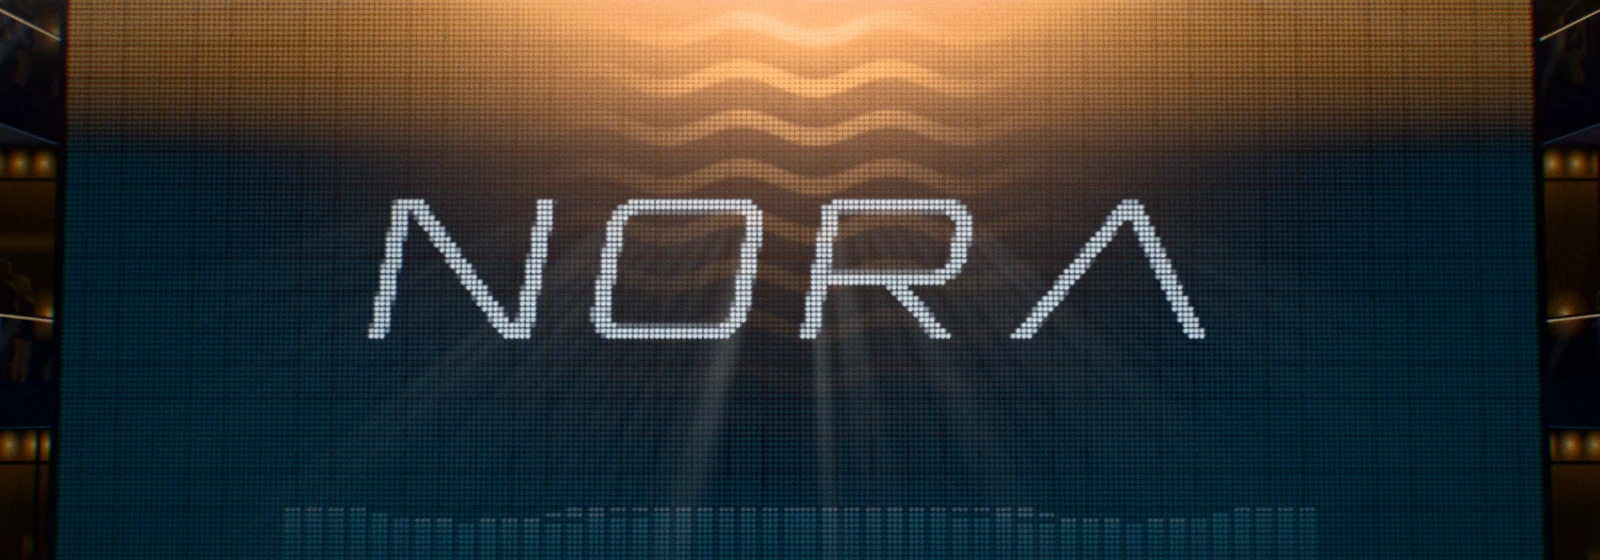
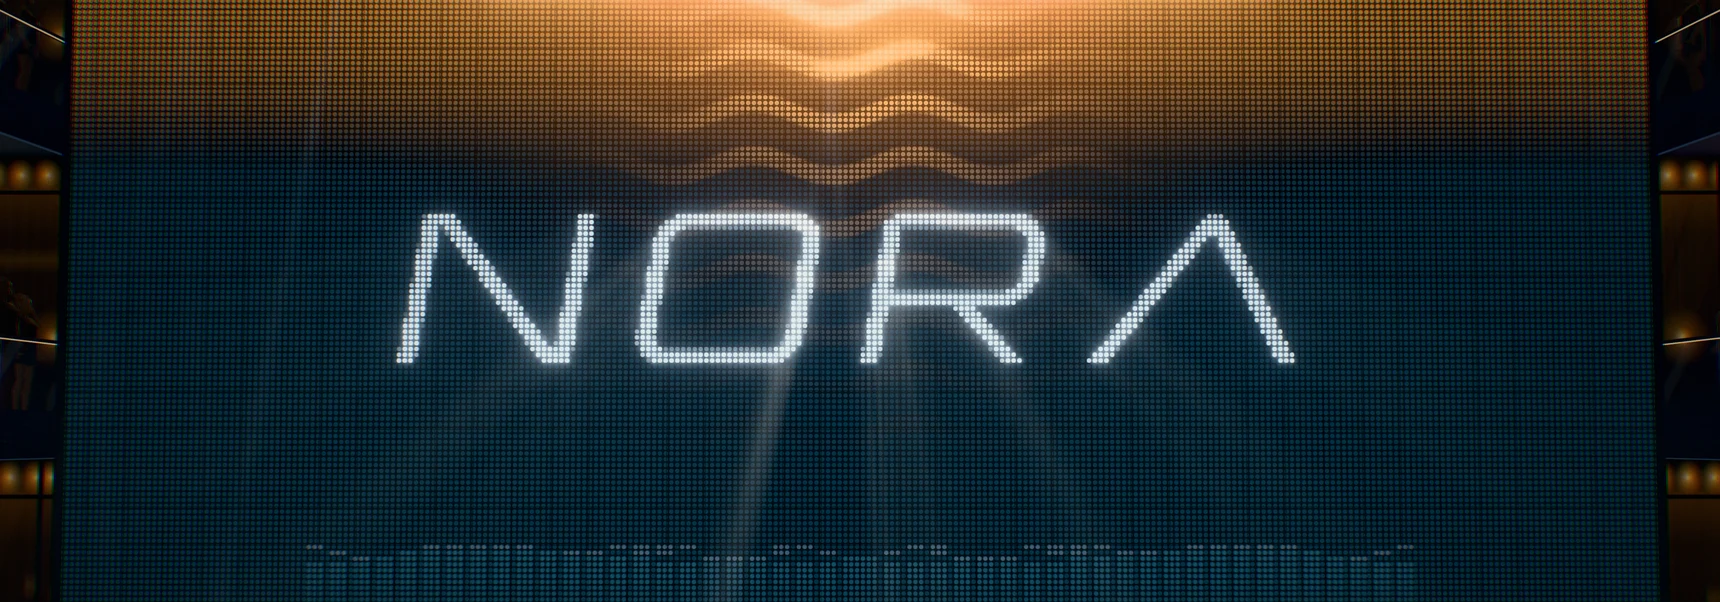
Radio: re-render the Nora box header at 2x so the LED wall is not pixelated
The header still (public/nora-stage.webp) was rendered at 1x: the wall's 75 mm
dots fell on a 5.4 px pitch, and a 2x screen upscaled the 1600 px file across the
860 px box. Same scene and camera, rendered at 2x and downscaled to 1720x602.
The harness defaults to SCALE=2 and takes a burst (the moving heads follow the
clock); tests/nora-stage-header.test.mjs holds the width, ratio and size.

Claude-Session: https://claude.ai/code/session_01KDkhrD5ZTH3LHxPqzpV1Qp

diff --git a/public/newdesign/radio.jsx b/public/newdesign/radio.jsx
@@ -184,7 +184,9 @@ async function rdKeeper() {
 // background as the header, so remove Nora in blue font". `/nora-stage.webp` is a still of the
 // booth's own scene, the wall pinned to its NORA artwork and her placeholder model hidden ("remove
 // noras avatar from snapshot"): prototypes/nora-booth/nora-wall-still.cjs makes it, camera
-// [0, 3.4, -15] at [0, 4.4, 5.44], fov 34, 1600x900, letterbox cropped to the wall's top 560 rows.
+// [0, 3.4, -15] at [0, 4.4, 5.44], fov 34, a 1600x900 frame rendered at 2x, letterbox cropped to the
+// wall's top 1120 rows and downscaled to 1720x602, twice the box's width. ⚠ At 1x it read "very
+// pixelated" (owner, 2026-10-15): tests/nora-stage-header.test.mjs holds the width.
 // The band runs to the box's edges and fades into it; the heading is still an <h2>, read by a
 // screen reader and hidden on screen, because the picture is the visual header.
 const RD_NORA_STAGE = "/nora-stage.webp";
